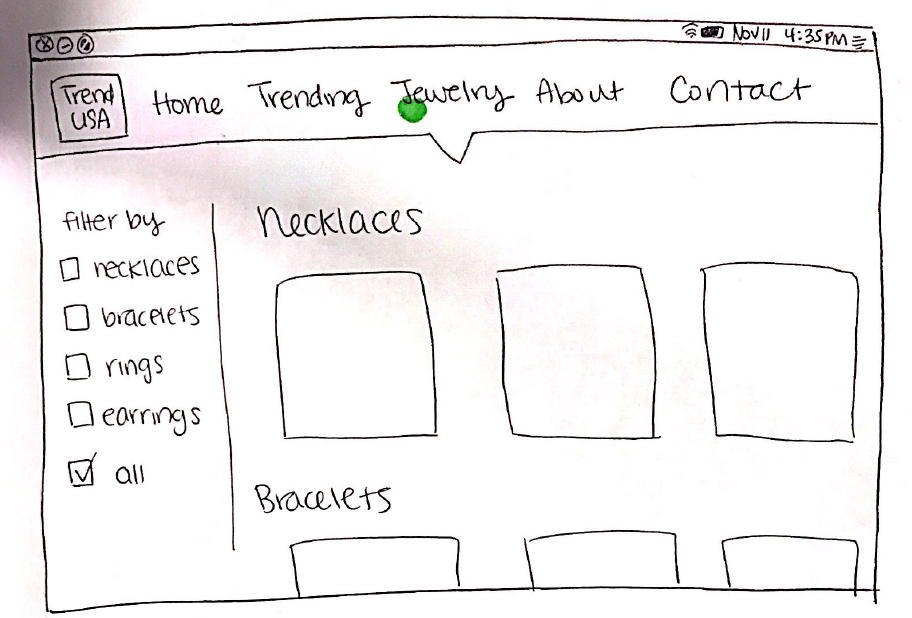
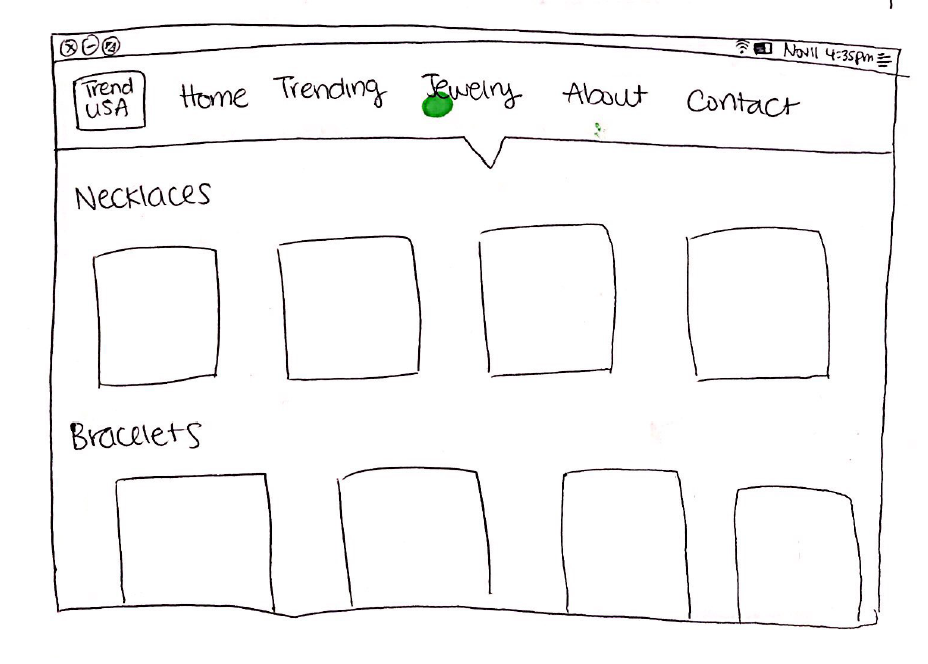
update sketches

diff --git a/documents/design-journey.md b/documents/design-journey.md
@@ -128,6 +128,8 @@ Example:
 - ![](jewelrysketch.png)
 - ![](aboutsketch.png)
 - ![](contactsketch.png)
+- ![](mobilesketch1.png)
+- ![](mobilesketch2.png)
 
 #### Interactivity (clive & david)
 
